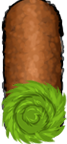
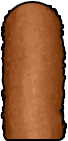
updated sod roll animations along with new sunflower and peashooter gifs

diff --git a/game/level/1.js b/game/level/1.js
@@ -340,7 +340,7 @@ oS.Init(
 							BeginCool();
 							SetVisible($("dFlagMeter"), $("dTop"));
 						})());
-			})(283, 122, 68, 117, 73, 71, 131, 511);
+			})(283, 122, 68, 118, 73, 71, 322, 511);
 		},
 	},
 	{

diff --git a/game/level/2.js b/game/level/2.js
@@ -242,7 +242,7 @@ oS.Init(
 								AutoProduceSun(25);
 							});
 						})());
-			})(283, 122, 68, 117, 73, 71, 131, 511);
+			})(283, 122, 68, 117, 73, 71, 211, 431);
 		},
 	},
 	{
